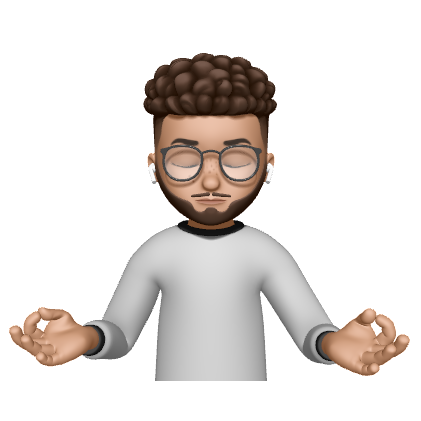
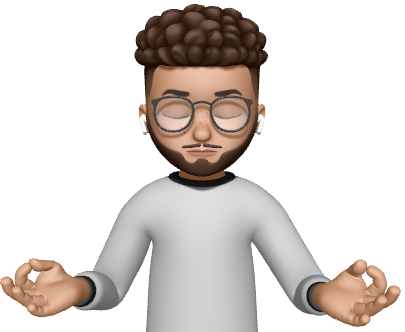
cropped photos to get rid of overflow

diff --git a/src/components/about/about.css b/src/components/about/about.css
@@ -39,8 +39,8 @@
   height: 40%;
   object-fit: cover;
   position: absolute;
-  padding: 327px 0 0 10px;
-  top: 0;
+  padding-top: 310.5px;
+  left: 0;
 }
 
 .a-award-img {

diff --git a/src/components/productList/ProductList.jsx b/src/components/productList/ProductList.jsx
@@ -1,4 +1,3 @@
-import React from "react";
 import "./productList.scss";
 import Product from "../product/Product";
 import { products } from "../../data";

diff --git a/src/components/intro/intro.scss b/src/components/intro/intro.scss
@@ -94,7 +94,7 @@ h3 {
 .peace {
   height: 40%;
   position: absolute;
-  padding-top: 486.5px;
+  bottom: 0;
   right: 0;
   object-fit: cover;
 }
